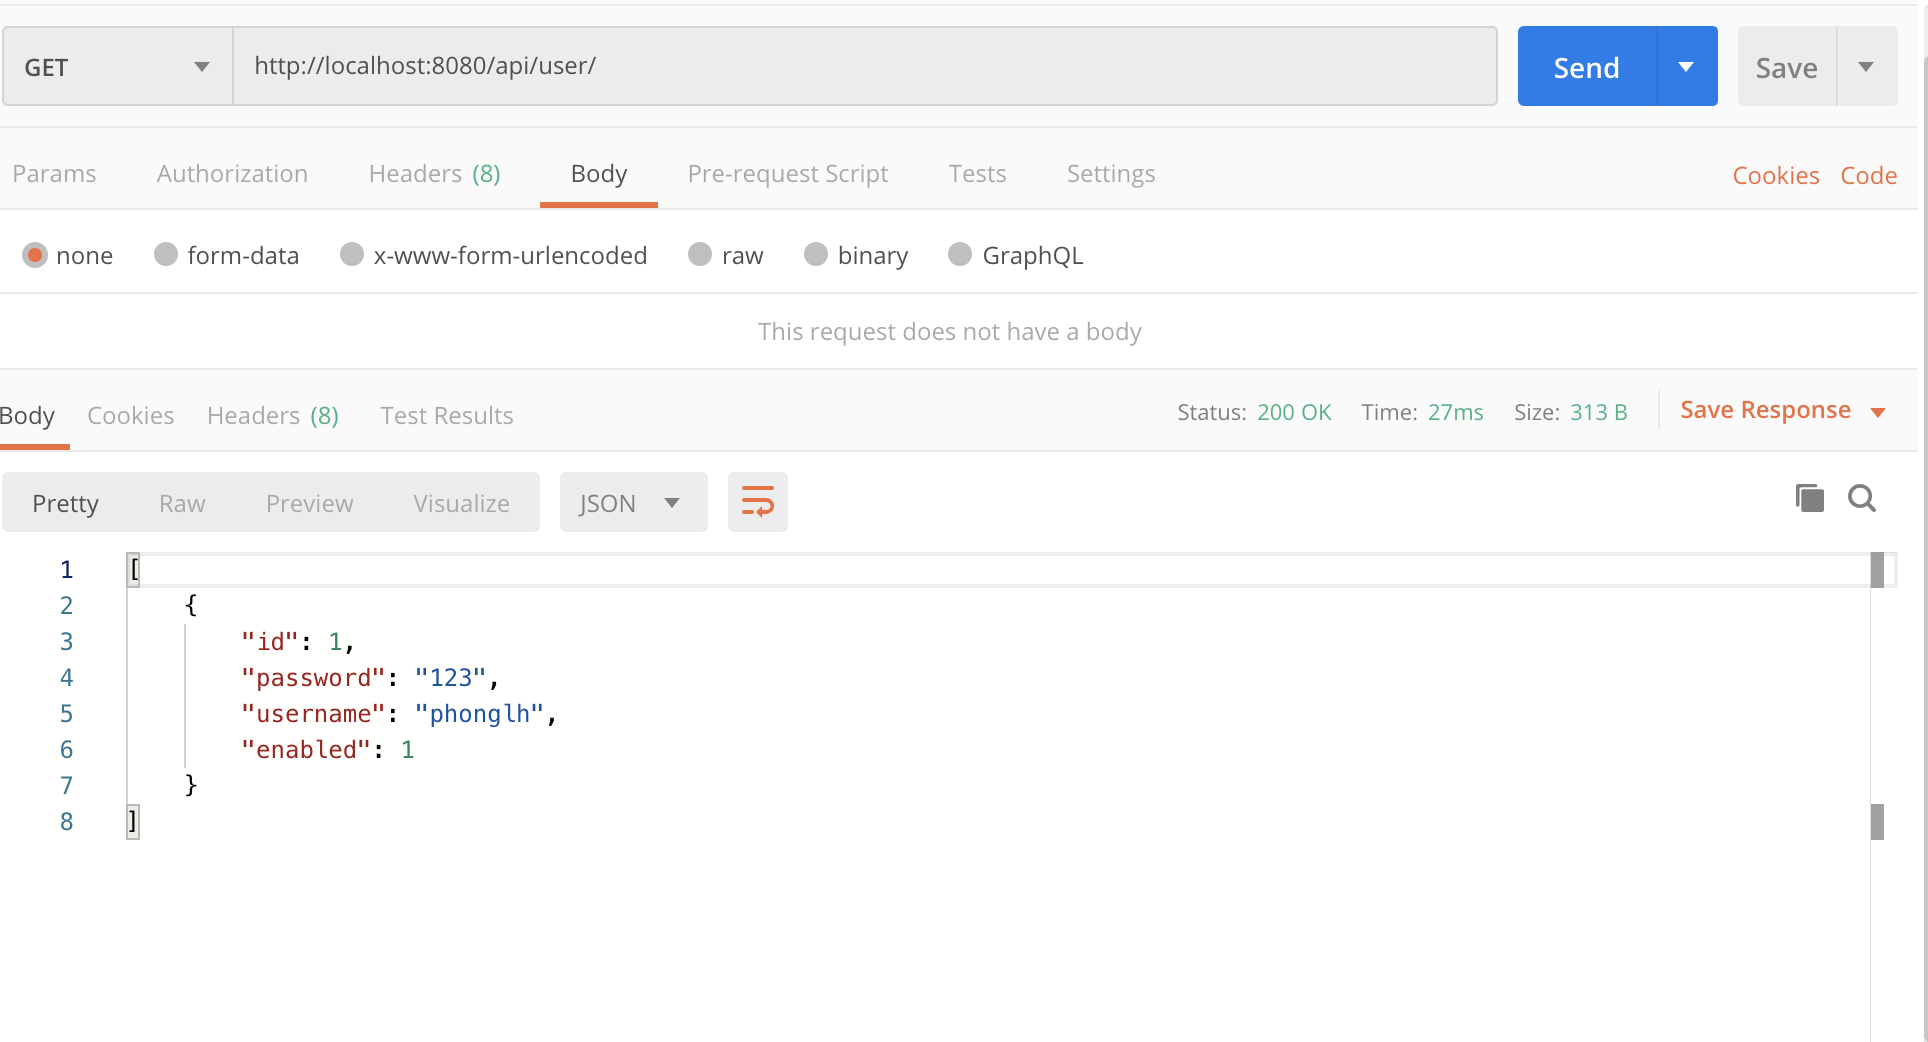
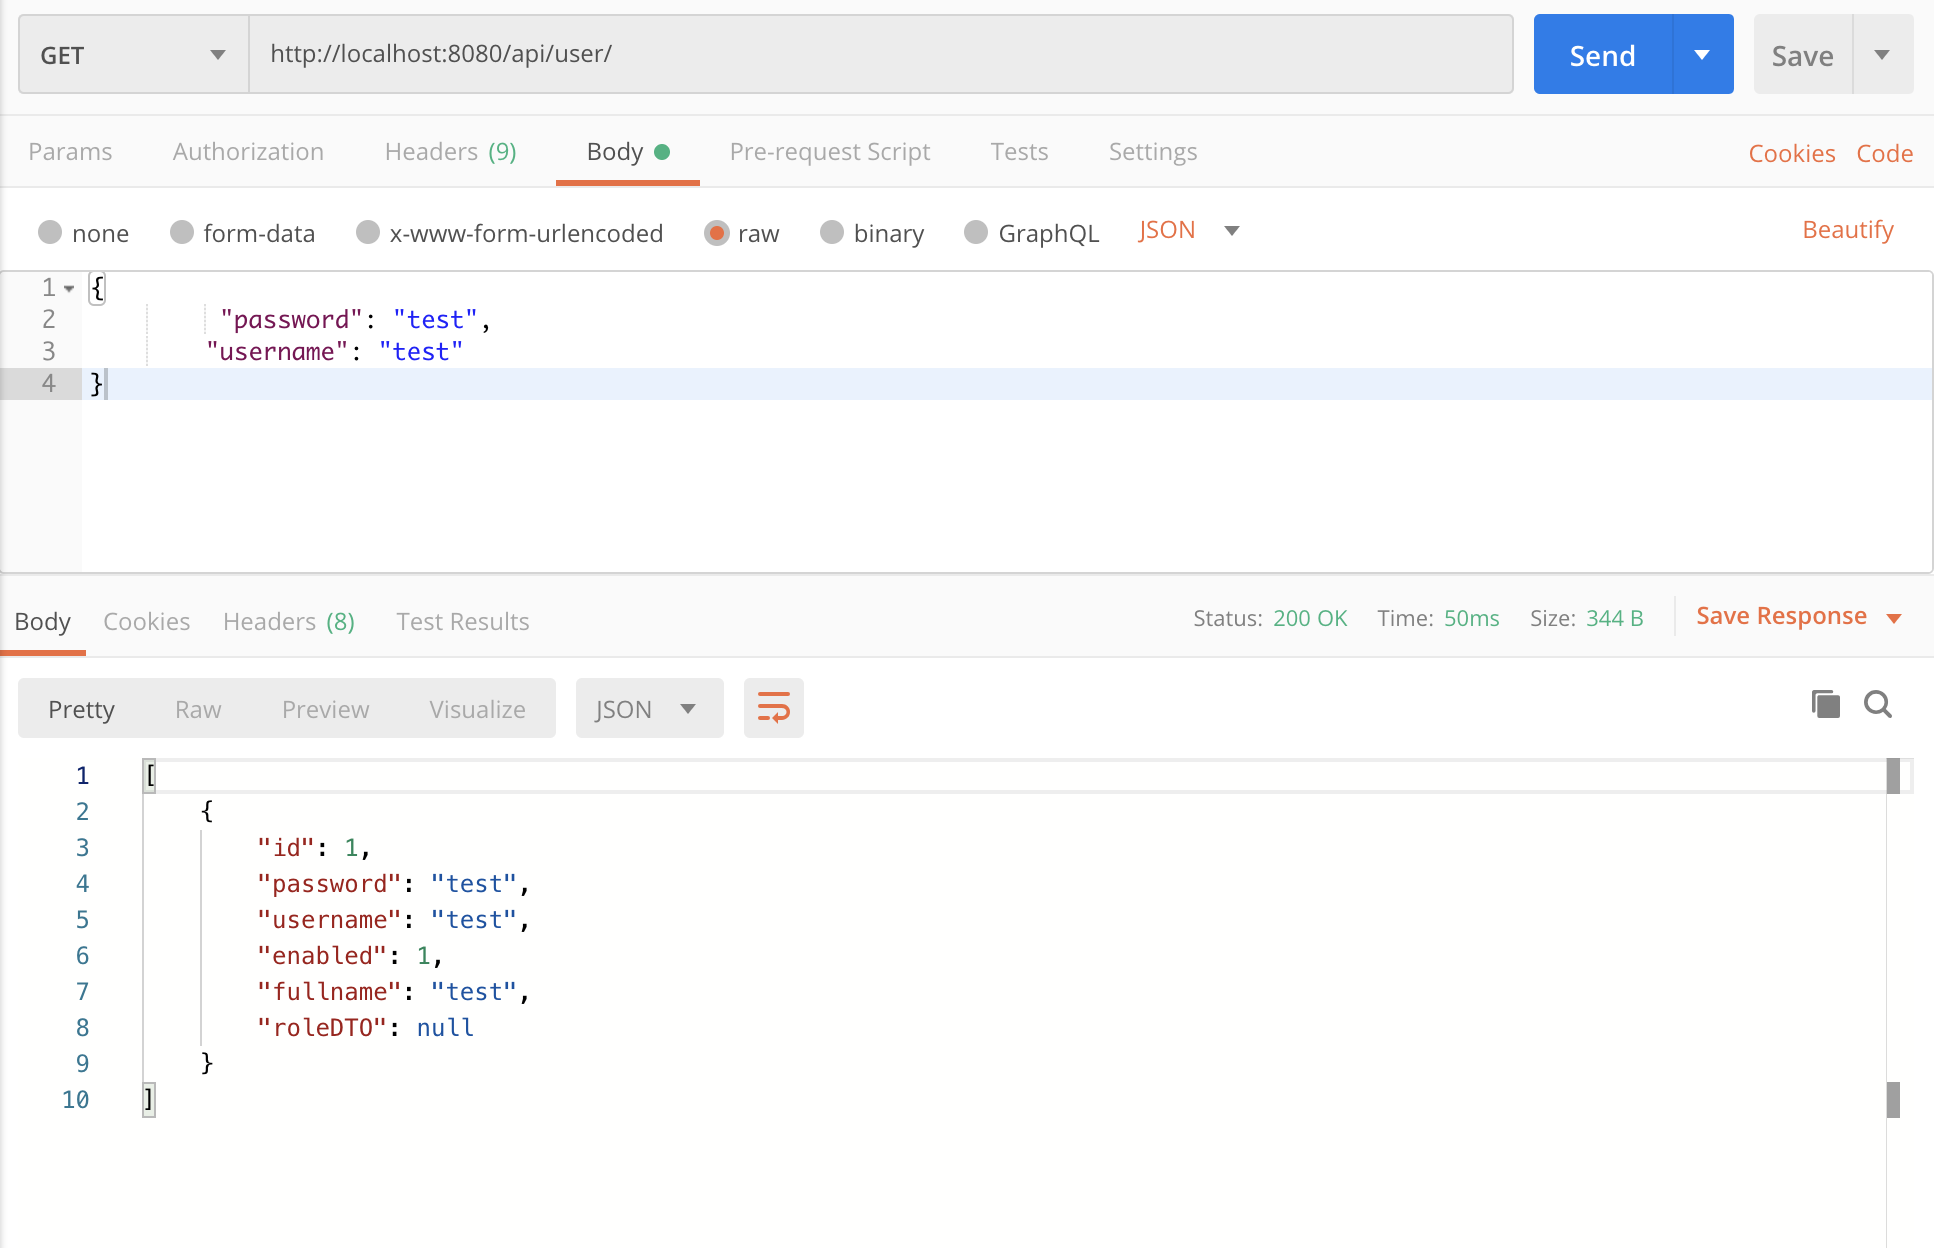
update CRUD user

diff --git a/backend/etutoring/src/main/java/com/fpt/etutoring/controller/impl/UserController.java b/backend/etutoring/src/main/java/com/fpt/etutoring/controller/impl/UserController.java
@@ -4,11 +4,15 @@ package com.fpt.etutoring.controller.impl;
 import com.fpt.etutoring.controller.BaseController;
 import com.fpt.etutoring.dto.RequestDTO;
 import com.fpt.etutoring.dto.ResponseDTO;
+import com.fpt.etutoring.dto.impl.RoleDTO;
 import com.fpt.etutoring.dto.impl.UserDTO;
+import com.fpt.etutoring.entity.impl.Role;
 import com.fpt.etutoring.entity.impl.User;
 import com.fpt.etutoring.service.UserService;
 import com.fpt.etutoring.util.Constant;
 import org.springframework.beans.factory.annotation.Autowired;
+import org.springframework.http.HttpStatus;
+import org.springframework.http.ResponseEntity;
 import org.springframework.util.CollectionUtils;
 import org.springframework.web.bind.annotation.*;
 
@@ -27,13 +31,19 @@ public class UserController implements BaseController<UserDTO, Long> {
 
 
     @PostMapping(Constant.PATH_LOGIN)
-    public String login(@RequestDTO(UserDTO.class) User user) {
+    public ResponseEntity<UserDTO> login(@RequestDTO(UserDTO.class) User user) {
 //        return securityService.autoLogin(user.getUsername(), user.getPassword());
         User u = userService.getUserByUsernameAndPassword(user.getUsername(), user.getPassword());
-        if (u != null)
-            return u.getRole().getRoleName();
-
-        return "";
+        if (u != null) {
+            Role role = u.getRole();
+            RoleDTO roleDTO = ResponseDTO.accepted().getObject(role, RoleDTO.class);
+            roleDTO.setUsers(null);
+            UserDTO userDTO = ResponseDTO.accepted().getObject(u, UserDTO.class);
+            userDTO.setRoleDTO(roleDTO);
+            userDTO.setPassword(null);
+            return new ResponseEntity<UserDTO>(userDTO, HttpStatus.OK);
+        }
+        return new ResponseEntity<>(HttpStatus.NOT_FOUND);
     }
 
     @Override

diff --git a/backend/etutoring/src/main/java/com/fpt/etutoring/dto/impl/UserDTO.java b/backend/etutoring/src/main/java/com/fpt/etutoring/dto/impl/UserDTO.java
@@ -11,4 +11,5 @@ public class UserDTO extends BaseDTO {
     private String username;
     private Short enabled;
     private String fullname;
+    private RoleDTO roleDTO;
 }
